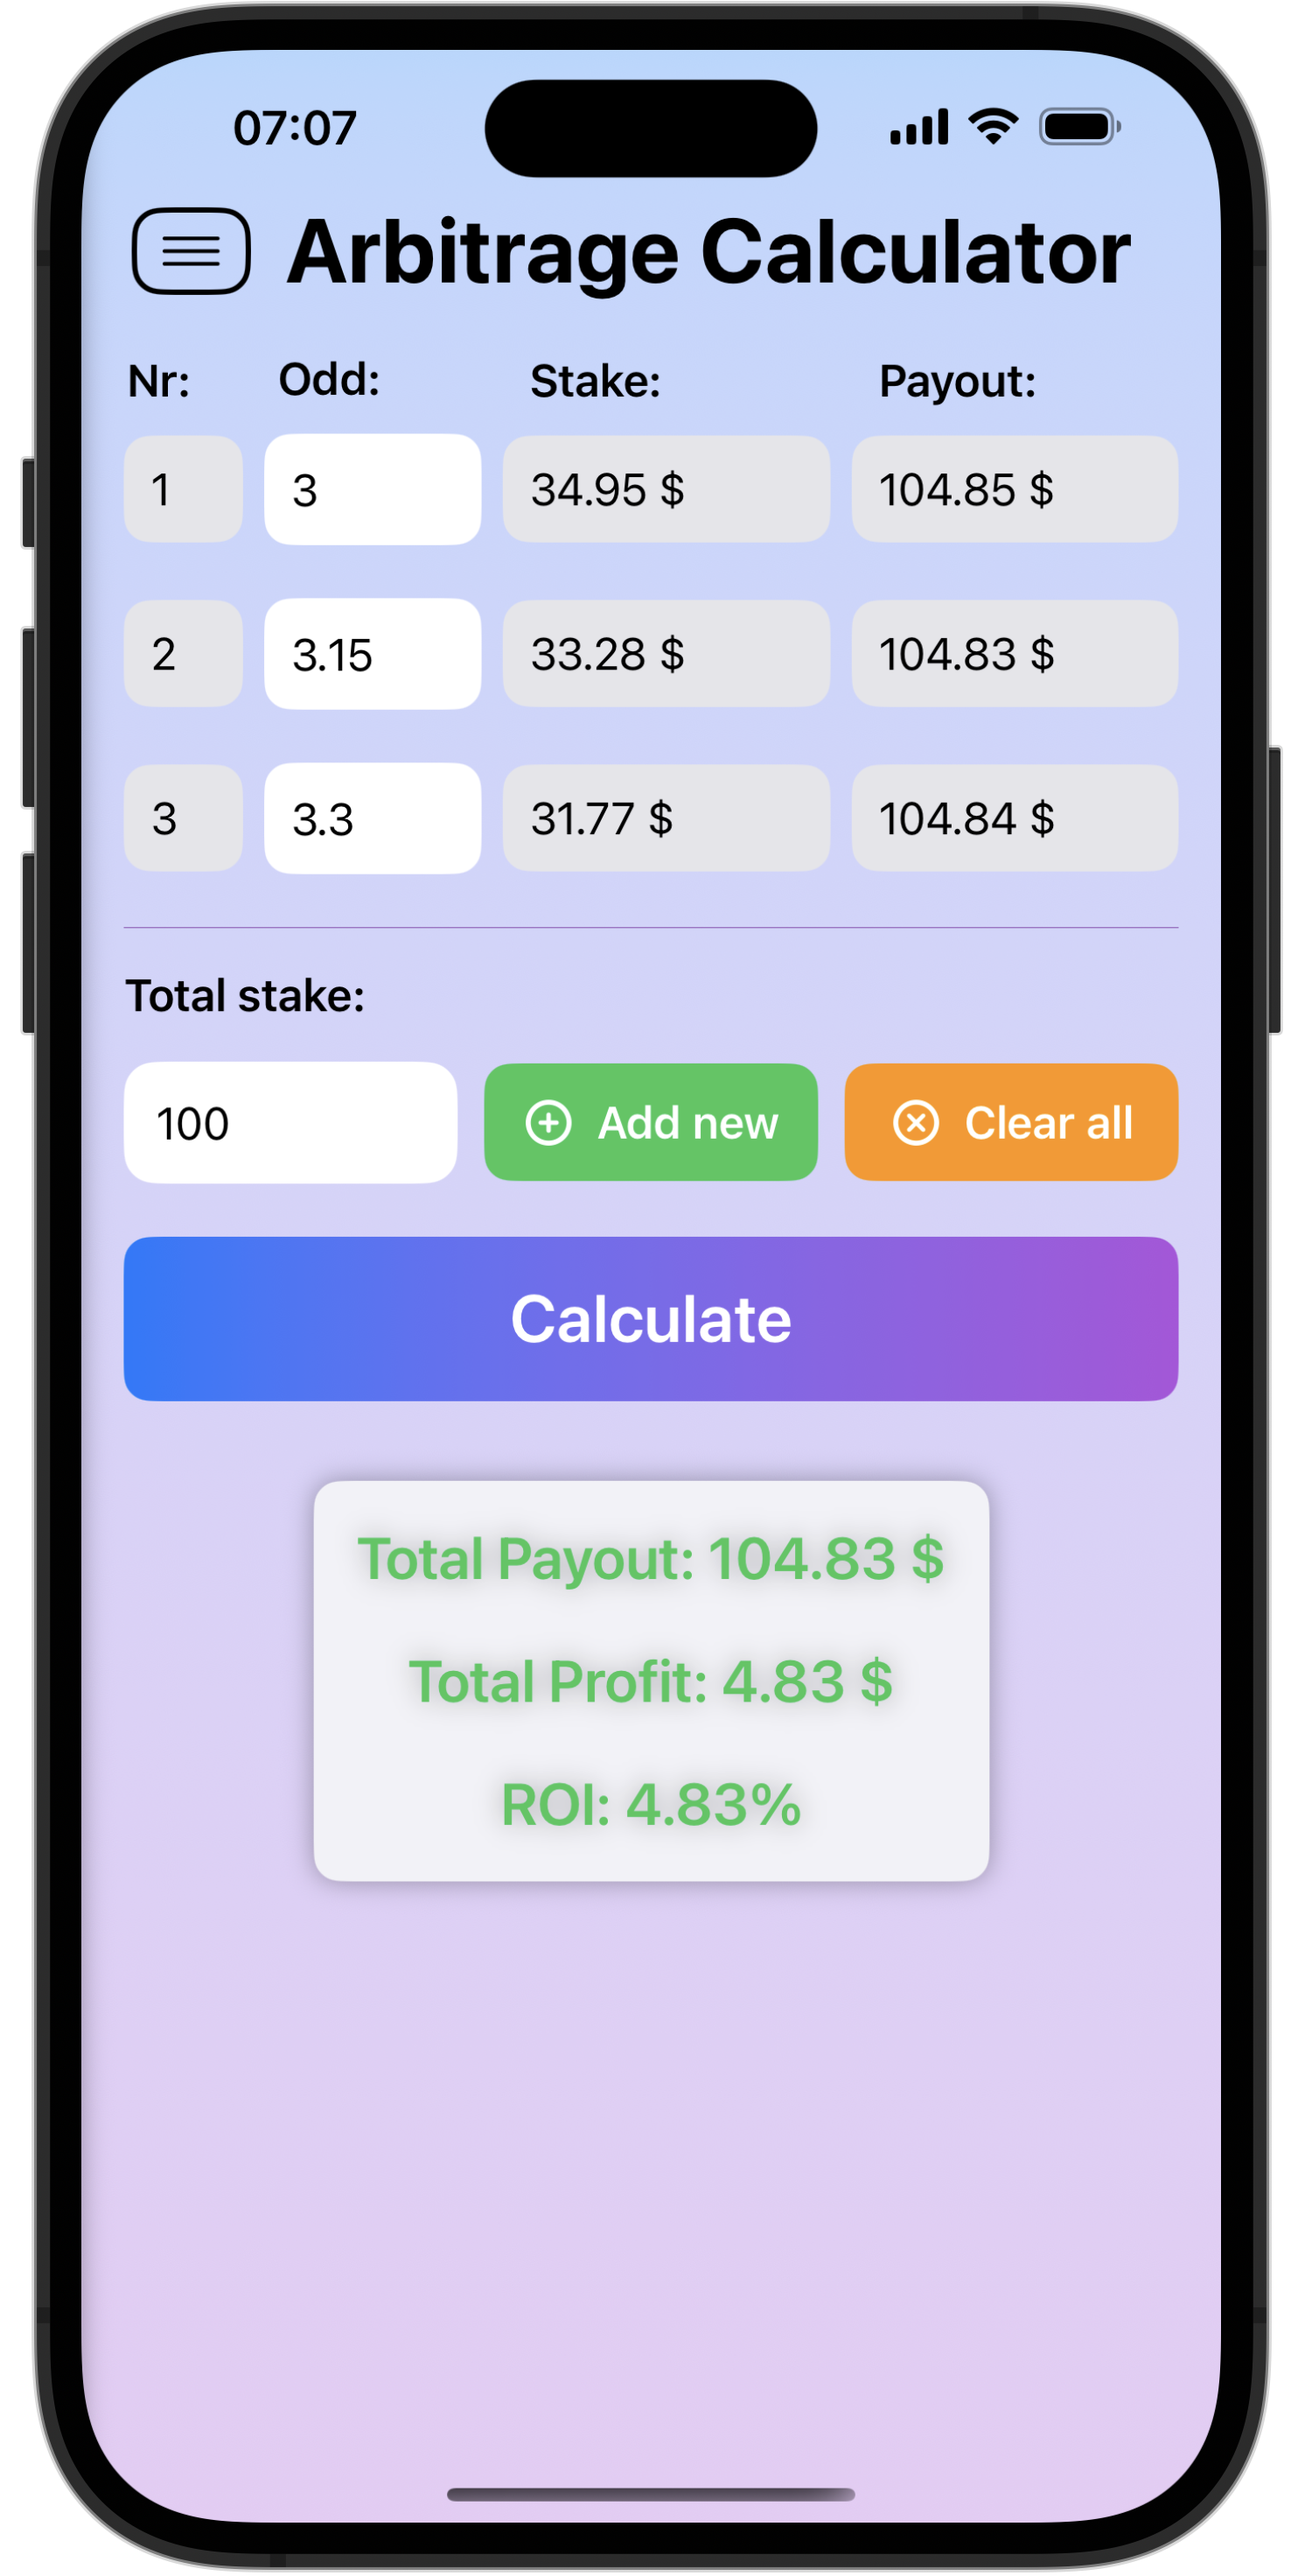
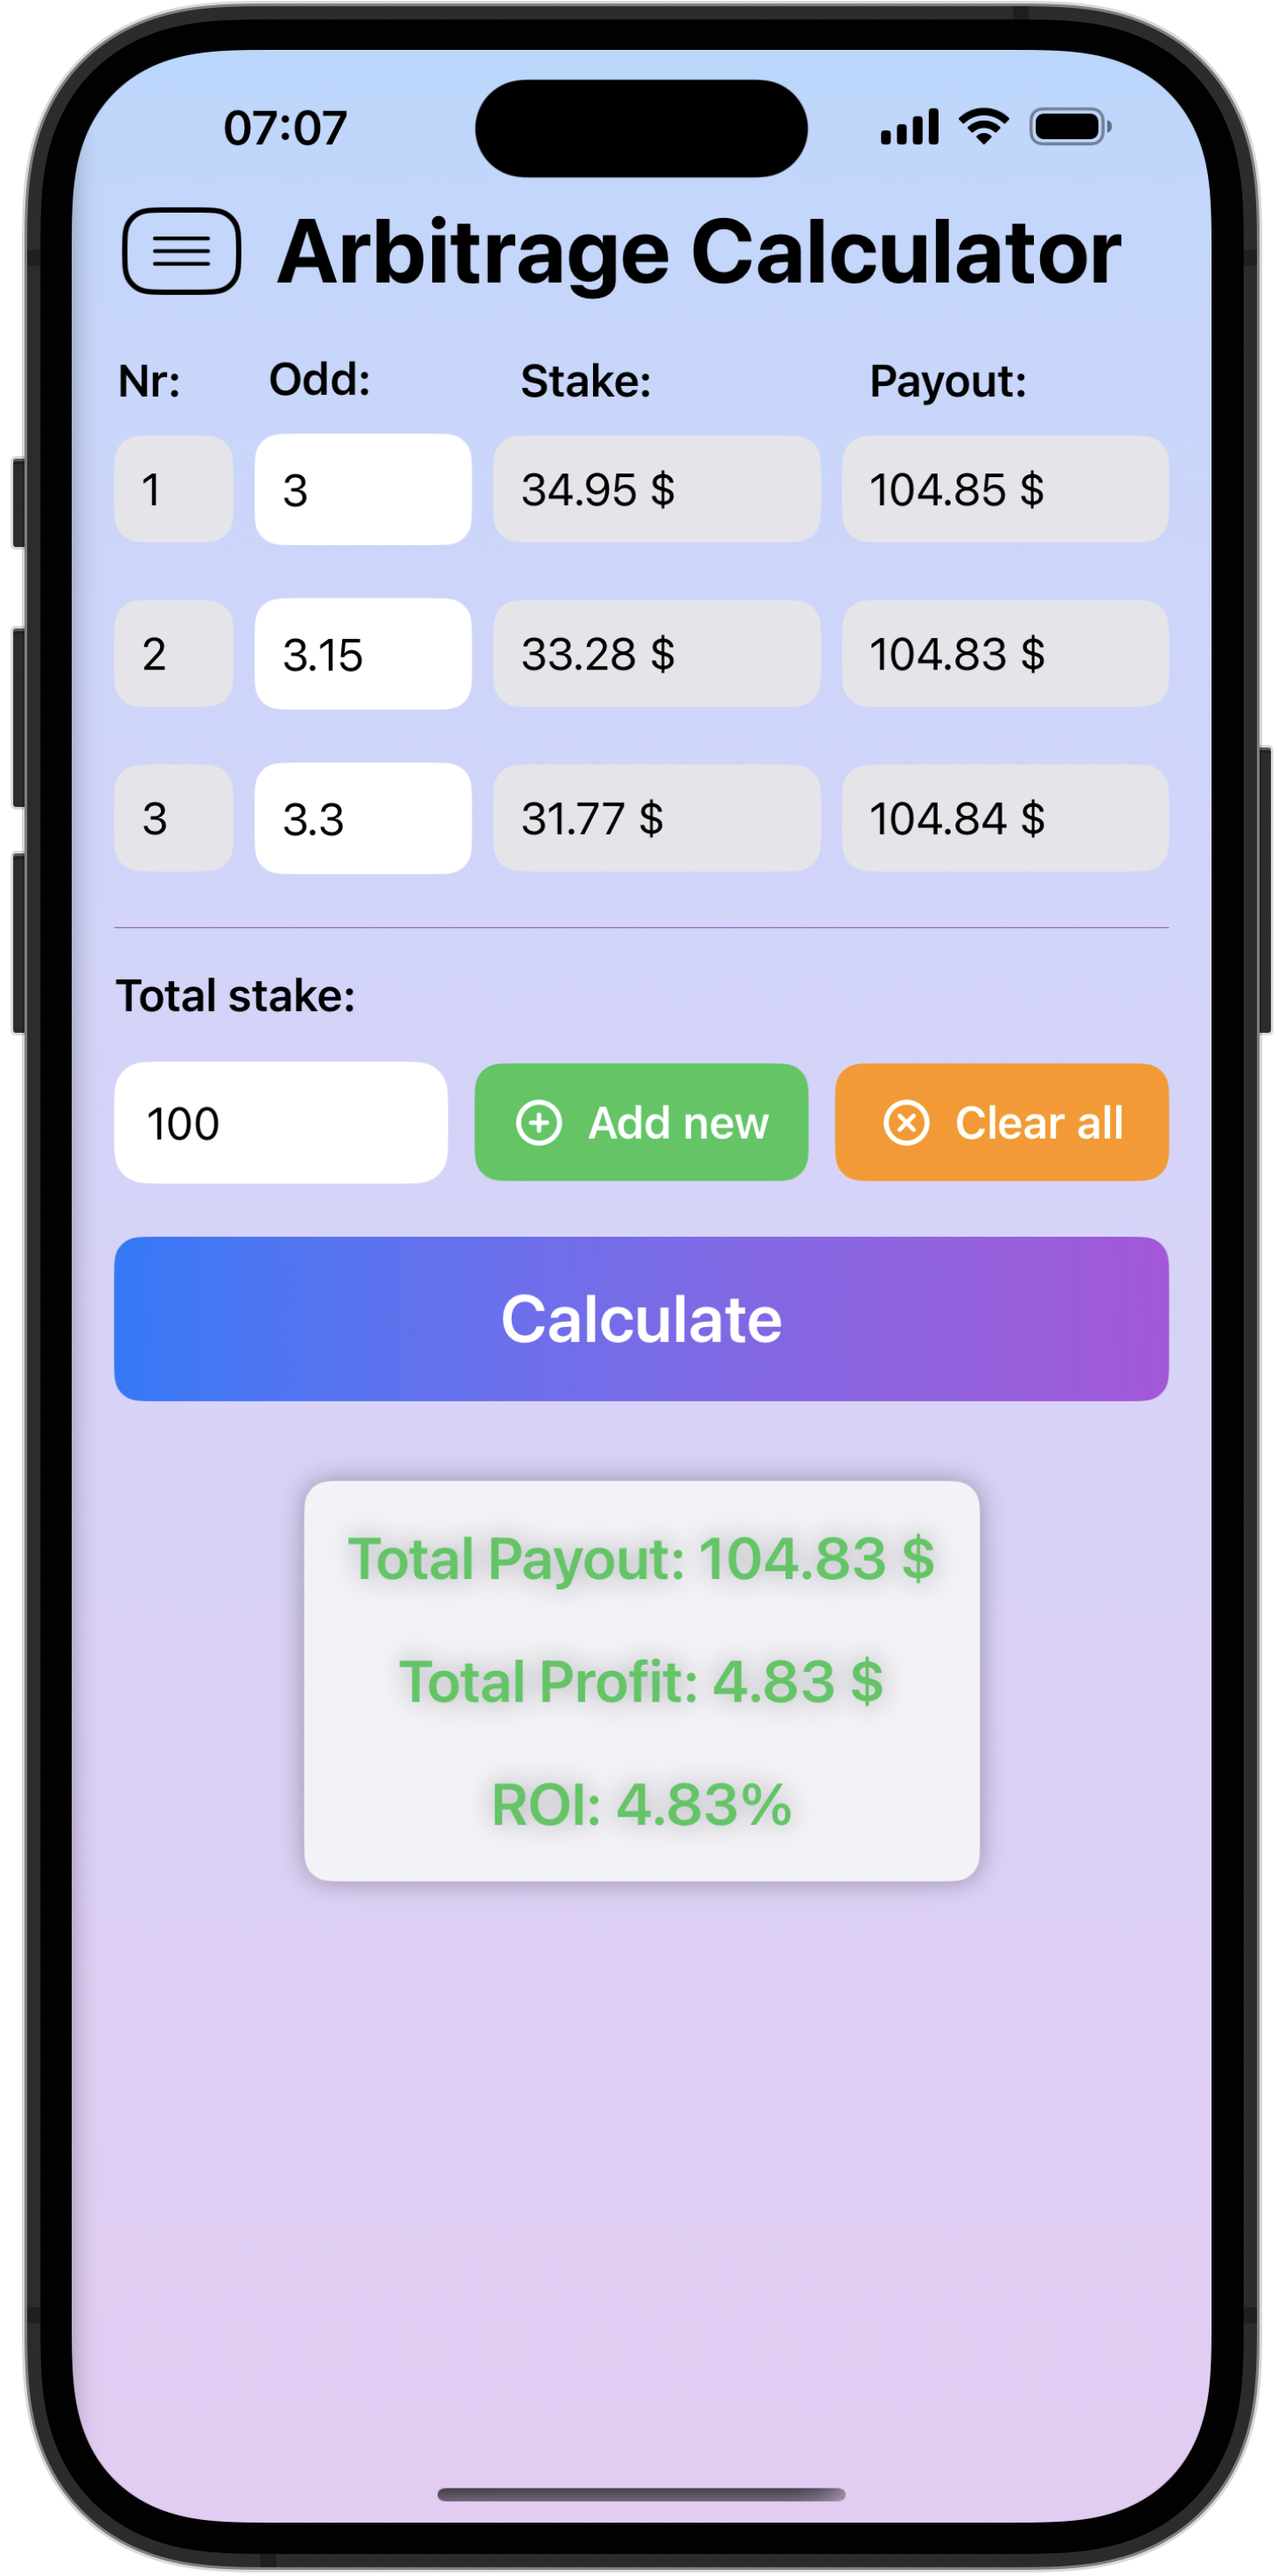
upload photos, make bigger message frame

diff --git a/src/components/Screenshot.js b/src/components/Screenshot.js
@@ -1,17 +1,23 @@
-import React, { useEffect, useState } from 'react';
-import styles from './Screenshot.module.css';
+// src/components/Screenshot.jsx
+import React, { useEffect, useState } from "react";
+import styles from "./Screenshot.module.css";
 
-const Screenshot = ({ src }) => {
-  const [text, setText] = useState('');
+export default function Screenshot({ src, alt = "screenshot" }) {
+  const isText = src.endsWith(".txt");
 
+  const [text, setText] = useState("");
   useEffect(() => {
-    fetch(src)
-      .then((res) => res.text())
-      .then((t) => setText(t))
-      .catch(() => setText(''));
-  }, [src]);
+    if (isText) {
+      fetch(src)
+        .then((res) => res.text())
+        .then(setText)
+        .catch(() => setText("Failed to load placeholder"));
+    }
+  }, [src, isText]);
 
-  return <pre className={styles.screenshot}>{text}</pre>;
-};
-
-export default Screenshot;
+  return isText ? (
+    <pre className={styles.placeholder}>{text}</pre>
+  ) : (
+    <img src={src} alt={alt} className={styles.screenshot} />
+  );
+}

diff --git a/src/pages/BonusOptimizer.js b/src/pages/BonusOptimizer.js
@@ -5,9 +5,15 @@ import Screenshot from '../components/Screenshot';
 const BonusOptimizer = () => {
   return (
     <div className={styles.container}>
-      <h1>Bonus Optimizer</h1>
-      <p>Instantly convert free bets and sign-up promos into guaranteed profit by balancing stakes across all outcomes.</p>
-      <Screenshot src="/assets/screenshot-bonus-optimizer.txt" />
+      <div className={styles.layout}>
+        <div className={styles.text}>
+          <h1>Bonus Optimizer</h1>
+          <p>Instantly convert free bets and sign-up promos into guaranteed profit by balancing stakes across all outcomes.</p>
+        </div>
+        <div className={styles.image}>
+          <Screenshot className={styles.scaledImage} src="/assets/bonus_ss.png" />
+        </div>
+      </div>
     </div>
   );
 };

diff --git a/src/pages/MarginChecker.js b/src/pages/MarginChecker.js
@@ -5,9 +5,15 @@ import Screenshot from '../components/Screenshot';
 const MarginChecker = () => {
   return (
     <div className={styles.container}>
-      <h1>Margin Checker</h1>
-      <p>Expose a bookmaker margin, or a rare negative margin, at a glance to know when odds are truly in your favor.</p>
-      <Screenshot src="/assets/screenshot-margin-checker.txt" />
+      <div className={styles.layout}>
+        <div className={styles.text}>
+          <h1>Margin Checker</h1>
+          <p>Expose a bookmaker margin, or a rare negative margin, at a glance to know when odds are truly in your favor.</p>
+        </div>
+        <div className={styles.image}>
+          <Screenshot className={styles.scaledImage} src="/assets/margin_ss.png" />
+        </div>
+      </div>
     </div>
   );
 };

diff --git a/src/pages/ArbitrageCalculator.js b/src/pages/ArbitrageCalculator.js
@@ -5,9 +5,15 @@ import Screenshot from '../components/Screenshot';
 const ArbitrageCalculator = () => {
   return (
     <div className={styles.container}>
-      <h1>Arbitrage Calculator</h1>
-      <p>Spot sure bets on two-way or three-way markets and see ROI before you place a single wager.</p>
-      <Screenshot src="/assets/screenshot-arbitrage-calculator.txt" />
+      <div className={styles.layout}>
+        <div className={styles.text}>
+          <h1>Arbitrage Calculator</h1>
+          <p>Spot sure bets on two-way or three-way markets and see ROI before you place a single wager.</p>
+        </div>
+        <div className={styles.image}>
+          <Screenshot className={styles.scaledImage} src="/assets/arbitrage_ss.png" />
+        </div>
+      </div>
     </div>
   );
 };

diff --git a/src/components/Screenshot.module.css b/src/components/Screenshot.module.css
@@ -1,6 +1,14 @@
 .screenshot {
-  background-color: #f3e8ff;
-  border: 1px solid #d8b4fe;
-  padding: 20px;
-  white-space: pre-wrap;
+  max-width: 70%;
+  border-radius: 1rem;
+  box-shadow: none;
+  border: none;
+}
+
+.placeholder {
+  background: #f5f3ff;      
+  color: #6d28d9;           
+  padding: 1rem;
+  border-radius: 1rem;
+  overflow-x: auto;
 }

diff --git a/src/pages/Calculator.module.css b/src/pages/Calculator.module.css
@@ -3,3 +3,25 @@
   max-width: 800px;
   margin: auto;
 }
+
+.layout {
+  display: flex;
+  align-items: center;
+  justify-content: space-between;
+  gap: 20px;
+}
+
+.text {
+  flex: 1;
+}
+
+.image {
+  flex: 1;
+  display: flex;
+  justify-content: flex-end;
+}
+
+.scaledImage {
+  max-width: 90%;
+  border-radius: 1rem;
+}

diff --git a/src/components/Navbar.module.css b/src/components/Navbar.module.css
@@ -12,12 +12,13 @@
 }
 
 .navbar a {
-  color: #fff;
+  color: #000000;
   text-decoration: none;
   padding: 8px 12px;
   border-radius: 4px;
   transition: background-color 0.3s;
 }
+
 
 .navbar a:hover {
   background-color: #7c3aed;

diff --git a/src/pages/Contact.module.css b/src/pages/Contact.module.css
@@ -21,6 +21,10 @@ textarea {
   border-radius: 4px;
 }
 
+textarea {
+  min-height: 150px;
+}
+
 button {
   background-color: #7c3aed;
   color: white;

diff --git a/src/pages/Contact.js b/src/pages/Contact.js
@@ -10,7 +10,6 @@ const Contact = () => {
 
   const handleSubmit = (e) => {
     e.preventDefault();
-    // no backend submission
   };
 
   return (
